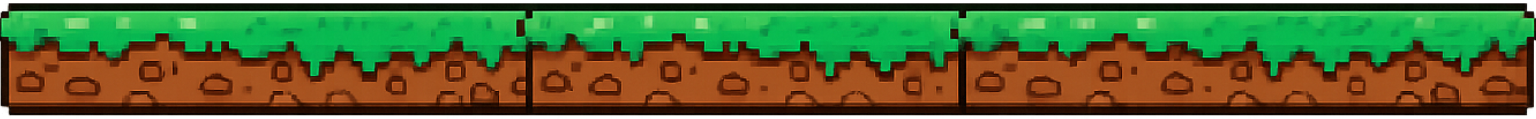
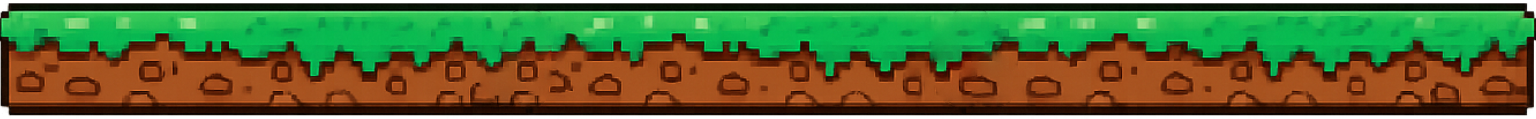
Enemigos: Nuevo gif. Islas: ligera modificacion

Changed region(s): [[0.5938, 0.0756, 0.6875, 0.9076], [0.3125, 0.3277, 0.375, 0.9076], [0.3125, 0.1008, 0.375, 0.3277]]

diff --git a/src/juego/Juego.java b/src/juego/Juego.java
@@ -1,7 +1,6 @@
 package juego;
 
 import entorno.Entorno;
-import entorno.Herramientas;
 import entorno.InterfaceJuego;
 import java.awt.Color;
 import java.awt.Image;
@@ -72,7 +71,6 @@ public class Juego extends InterfaceJuego {
 
         // NIVEL 2: ISLAS GRANDES (piso) - La primera isla aparece cerca
         double acumuladorX = 100; // Empieza más cerca
-        double ultimaXGrande = 0;
         for (int i = 0; i < 10; i++) {
             double separacion;
             if (i == 0) {
@@ -84,7 +82,6 @@ public class Juego extends InterfaceJuego {
             if (xPos < anchoTotalMapa - 400) {
                 this.islas[2][i] = new Isla(xPos, 560, this.entorno, 1);
                 acumuladorX = xPos;
-                ultimaXGrande = xPos;
             }
         }
 
@@ -623,7 +620,6 @@ public class Juego extends InterfaceJuego {
         this.islas = new Isla[3][15];
 
         double acumuladorX = 100;
-        double ultimaXGrande = 0;
         for (int i = 0; i < 10; i++) {
             double separacion;
             if (i == 0) {
@@ -635,7 +631,6 @@ public class Juego extends InterfaceJuego {
             if (xPos < anchoTotalMapa - 400) {
                 this.islas[2][i] = new Isla(xPos, 560, this.entorno, 1);
                 acumuladorX = xPos;
-                ultimaXGrande = xPos;
             }
         }
 

diff --git a/src/juego/Enemigo.java b/src/juego/Enemigo.java
@@ -19,9 +19,14 @@ public class Enemigo {
         this.y = y;
         this.velocidad = velocidad;
         this.activo = true;
-        this.escala = 0.05;
+        this.escala = 0.2;
         
-        this.imagen = Herramientas.cargarImagen("juego/enemigo.png");
+        if(this.velocidad > 1) {
+        	this.imagen = Herramientas.cargarImagen("juego/enemigoDer.gif");
+        } else {
+        	this.imagen = Herramientas.cargarImagen("juego/enemigoIzq.gif");
+        }
+        
         
         if (this.imagen != null) {
             this.ancho = this.imagen.getWidth(null) * this.escala ;
